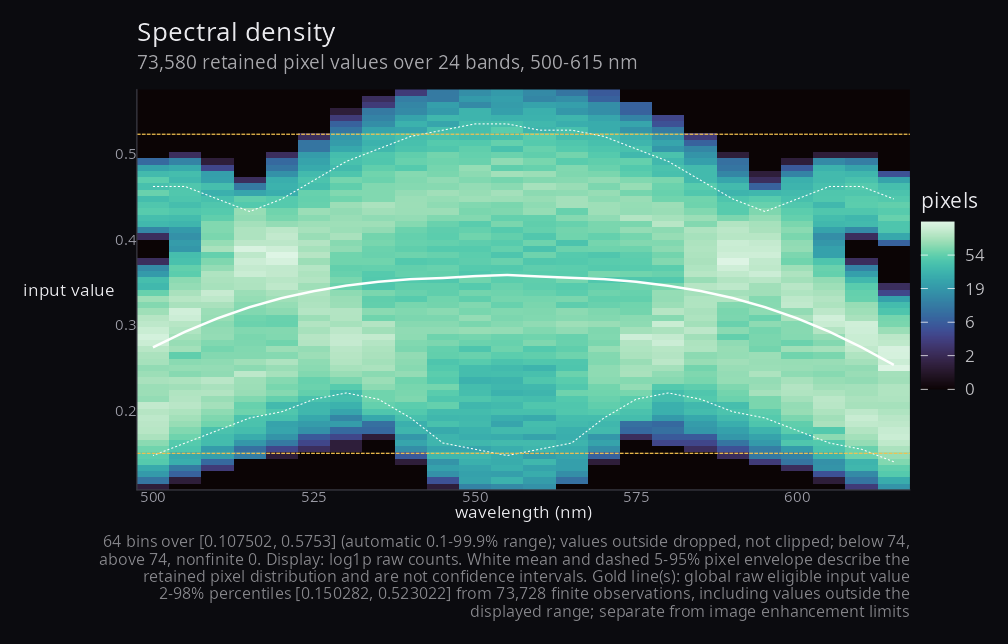
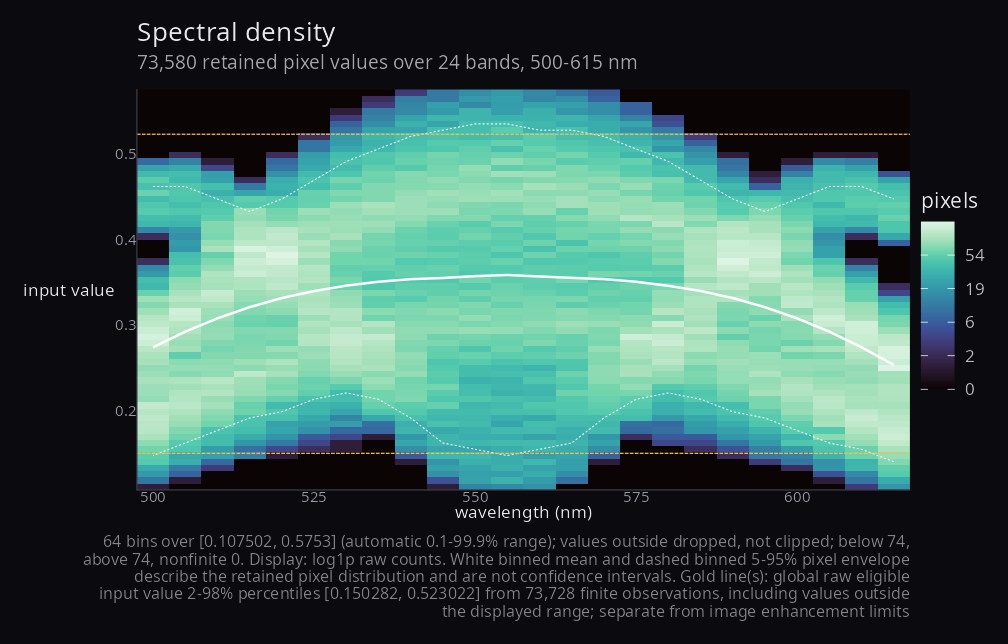
Clarify density captions and final evidence

Changed region(s): [[0.0923, 0.8385, 0.8919, 0.9627]]

diff --git a/planning/evidence/performance.md b/planning/evidence/performance.md
@@ -1,4 +1,6 @@
-Benchmarks compare audit baseline `1df0bdd` with the corrected numerical implementation at `12d7428`. Some candidate records identify the subsequent documentation-only commit `9c385c8`; R source, DESCRIPTION and NAMESPACE were unchanged and all candidate records report a clean source state. The complete [measurement table](benchmarks.csv) includes medians, minima, maxima, versions, source revisions and dimensions.
+Benchmarks compare audit baseline `1df0bdd` with the corrected numerical implementation at `12d7428`. Some candidate records identify the subsequent documentation-only commit `9c385c8`; R source, DESCRIPTION and NAMESPACE were unchanged. All 26 records identify their source revision and report a clean source state. The complete [measurement table](benchmarks.csv) includes medians, minima, maxima, versions, source revisions and dimensions.
+
+The three early audit-density baseline records predated source-identity capture and were rerun with the same final harness. Their committed rows are fresh observations, not historical values with metadata backfilled; the original logs and RDS records are preserved separately. `NA` remains only where older auxiliary metrics were not recorded.
 
 The host was an Intel Xeon w9-3475X (36 cores/72 threads), Ubuntu 26.04, R 4.6.1 and ggplot2 4.0.3. Each case runs in a fresh R process, constructs a seeded synthetic cube (seed 42), warms a small plot, then measures three repetitions. Garbage collection precedes each repetition. Calculation and ggplot/grid drawing are measured separately. Performance cases ran sequentially; the three short demo cases were rerun after a brief initial overlap with validation to keep the reported comparison free of that workload.
 
@@ -17,14 +19,14 @@ The table below shows median calculation seconds, profiled cumulative calculatio
 | demo / auto | 0.043 → 0.048 | 0.0 → 0.0 | 213.6 → 220.6 |
 | demo / references | 0.048 → 0.050 | 0.0 → 0.0 | 221.8 → 218.4 |
 | demo / fixed | 0.041 → 0.045 | 0.0 → 0.0 | 210.6 → 211.2 |
-| audit / auto | 0.755 → 0.818 | 437.5 → 156.3 | 745.0 → 645.5 |
-| audit / references | 1.226 → 0.851 | 1125.0 → 156.3 | 822.1 → 641.5 |
-| audit / fixed | 0.625 → 0.411 | 156.3 → 0.0 | 548.4 → 331.6 |
+| audit / auto | 0.732 → 0.818 | 437.5005 → 156.2501 | 652.5703 → 645.4922 |
+| audit / references | 1.219 → 0.851 | 1125.0012 → 156.2501 | 837.9766 → 641.4883 |
+| audit / fixed | 0.604 → 0.411 | 156.2502 → 0.0000 | 568.8516 → 331.6289 |
 | large / auto | 2.482 → 2.445 | 3398.0 → 3866.8 | 1847.7 → 1396.1 |
 | large / references | 4.061 → 2.529 | 5976.2 → 3866.8 | 2285.3 → 1480.1 |
 | large / fixed | 1.611 → 1.600 | 2343.8 → 2109.5 | 1370.3 → 660.9 |
 
-Adding global references now adds **0%** profiled calculation allocation over automatic limits on both audit and large fixtures, meeting the proposed ceiling of 25%. Joint quantile work replaces the discarded stretched cube. At audit size, the reference case falls from 1,125.0 to 156.3 MiB of profiled traffic.
+Adding global references now adds **0%** profiled calculation allocation over automatic limits on both audit and large fixtures, meeting the proposed ceiling of 25%. Joint quantile work replaces the discarded stretched cube. At audit size, the reference case falls from 1,125.0012 to 156.2501 MiB of profiled traffic.
 
 The fixed-limit path has no additional allocation proportional to all cube elements. At large size its largest profiled allocation falls from 234.375 to 2.344 MiB: one of 100 bands. Its peak RSS falls 51.8%. Repeated allocation of short-lived band buffers still produces cumulative traffic; bounded live working storage does not imply zero total allocation.
 

diff --git a/planning/evidence/decisions.md b/planning/evidence/decisions.md
@@ -3,7 +3,8 @@ The implementation adopts the following decisions from the audit and review proc
 | Decision | Reason | Consequence if unsuitable |
 |---|---|---|
 | Work on an isolated feature branch and preserve the original planning files. | Keep implementation and package-build artifacts separate from the reviewed baseline. | The feature branch can be revised without changing the shared main branch. |
-| Use strict propagation for required image observations; expose available-case fusion explicitly. | Missing channels must not become fabricated opaque measurements, and a default quantity should use the same selected bands at each pixel. | Existing incomplete data may produce fewer visible pixels; callers can choose available-case fusion and inspect contribution counts. |
+| Use strict propagation for required image observations; expose available-case fusion explicitly. | Missing channels must not become fabricated opaque measurements, and a default quantity should use the same selected bands at each pixel. | Existing incomplete data may produce fewer visible pixels; callers can choose available-case fusion and inspect contribution summaries. |
+| Retain summary-only contribution metadata for each available-case fusion channel. | Selected-band count, minimum/maximum contributors, complete-pixel count and no-contributor-pixel count disclose changing participation without storing a full spatial count map. | Individual pixel denominators cannot be recovered from provenance; callers needing them must calculate them from the source data and mask. |
 | Give unscaled images an explicit default display domain [0, 1], preserve raw values, and reject values outside a supplied raw domain. | A colour constructor needs a known range; silently learning a different domain for each image undermines comparison. | Callers with counts or another calibrated scale must supply appropriate display limits. |
 | Reject invalid or unordered wavelength metadata and label missing coordinates as band indices. | Silent recycling, reordering and nanometre labels can change the scientific meaning. | Some previously accepted inputs now fail until data and metadata are corrected together upstream. |
 | Divide implementation into image contracts, exact density, spectral extensions, publication/checks and final evidence, each with a scoped review before the final whole-branch review. | Shared numerical interfaces need to stabilize before dependent work. | A cross-cutting finding may reopen an earlier contract and add rework. |

diff --git a/planning/analysis-and-validation.md b/planning/analysis-and-validation.md
@@ -25,7 +25,7 @@ For explicit wavelength requests, retain nearest-band selection but specify a de
 
 Duplicate selections within a fusion group should be rejected or explicitly represented as weights; silently repeating a band changes its contribution. Overlap between different colour groups is allowed when deliberately supplied. Default groups must be nonempty, disjoint, contiguous, and cover the available bands once; require at least three bands for that default.
 
-The image missing-data default is **propagation**: if a quantity needs several selected measurements, every required measurement must be valid. This keeps its definition constant across pixels. The explicit **available-case** fusion mode averages valid contributors only, provided each channel has at least one contributor and the changing band counts are disclosed. Never replace a missing channel with zero. Fusion exposes these choices as `missing = "propagate"` (default) and `missing = "available"`; full channel contribution counts remain inspectable.
+The image missing-data default is **propagation**: if a quantity needs several selected measurements, every required measurement must be valid. This keeps its definition constant across pixels. The explicit **available-case** fusion mode averages valid contributors only, provided each channel has at least one contributor and the changing band counts are disclosed. Never replace a missing channel with zero. Fusion exposes these choices as `missing = "propagate"` (default) and `missing = "available"`. Its provenance retains each channel's selected-band count, minimum and maximum contributors, complete-pixel count, and no-contributor-pixel count; it does not retain a contributor count for every spatial pixel.
 
 Density is a per-band distribution, so it uses finite eligible observations separately in each band. Entirely invalid spatial pixels are absent everywhere. An entirely invalid image or cube should produce an actionable error rather than an apparently measured blank/black image. A partly empty density band should remain visible as missing information, with a gap in its overlays.
 

diff --git a/README.md b/README.md
@@ -56,7 +56,7 @@ cube$data[10, 10, 2] <- Inf
 p <- hsa_fusion(cube, red = 17:24, green = 9:16, blue = 1:8)
 q <- hsa_fusion(cube, red = 17:24, green = 9:16, blue = 1:8,
                 missing = "available")
-hsa_provenance(q)$missingness  # inspect changing contributor counts
+hsa_provenance(q)$missingness  # inspect per-channel contributor summaries
 
 # Extracting $data alone drops cube-level mask/wavelength fields.
 # A plain array has band-index coordinates unless attributes provide metadata.
@@ -74,6 +74,10 @@ fusion uses disjoint contiguous index thirds, highest indices to red,
 regardless of `by`. Explicit wavelength targets select the nearest measured
 band, ties toward the shorter wavelength. Index requests are whole indices;
 physical requests require strictly increasing wavelength metadata in nm.
+
+Available-case provenance retains each channel's selected-band count,
+minimum/maximum contributors, complete-pixel count and no-contributor-pixel
+count. It does not retain a contributor count for every spatial pixel.
 
 Range and type-7 percentile stretches map raw values to `[0, 1]`. Collapsed
 percentile limits fall back to the finite range; constant data map to the dark
